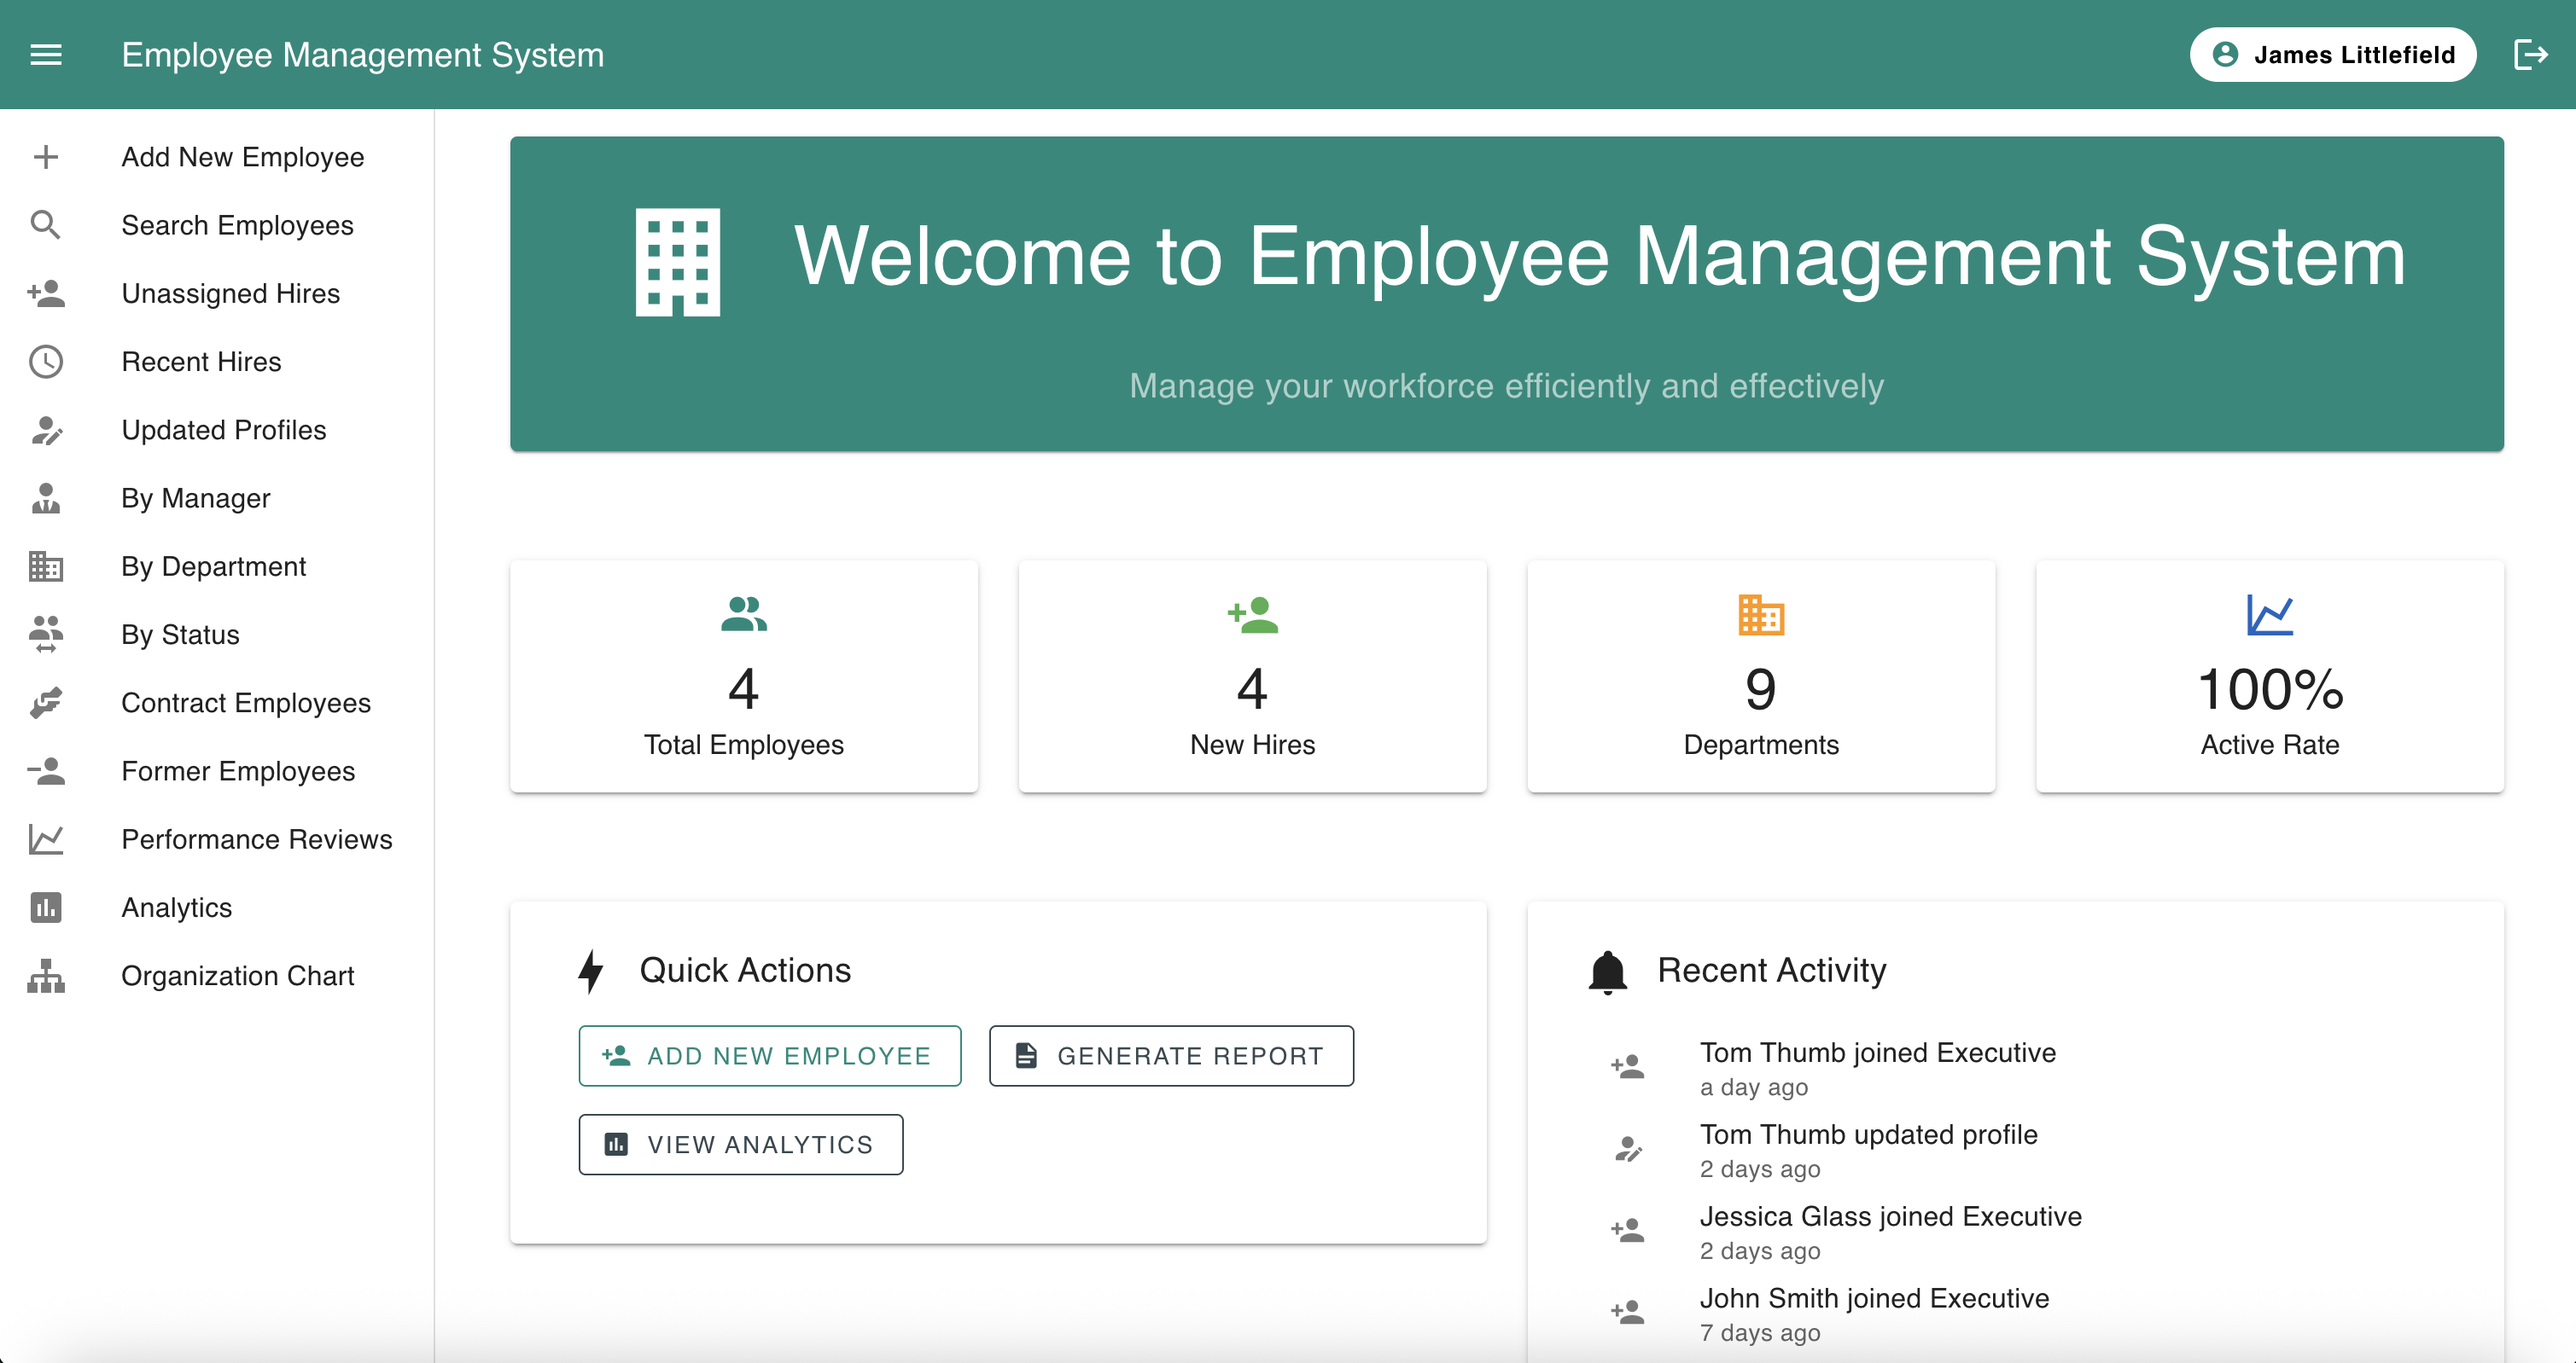
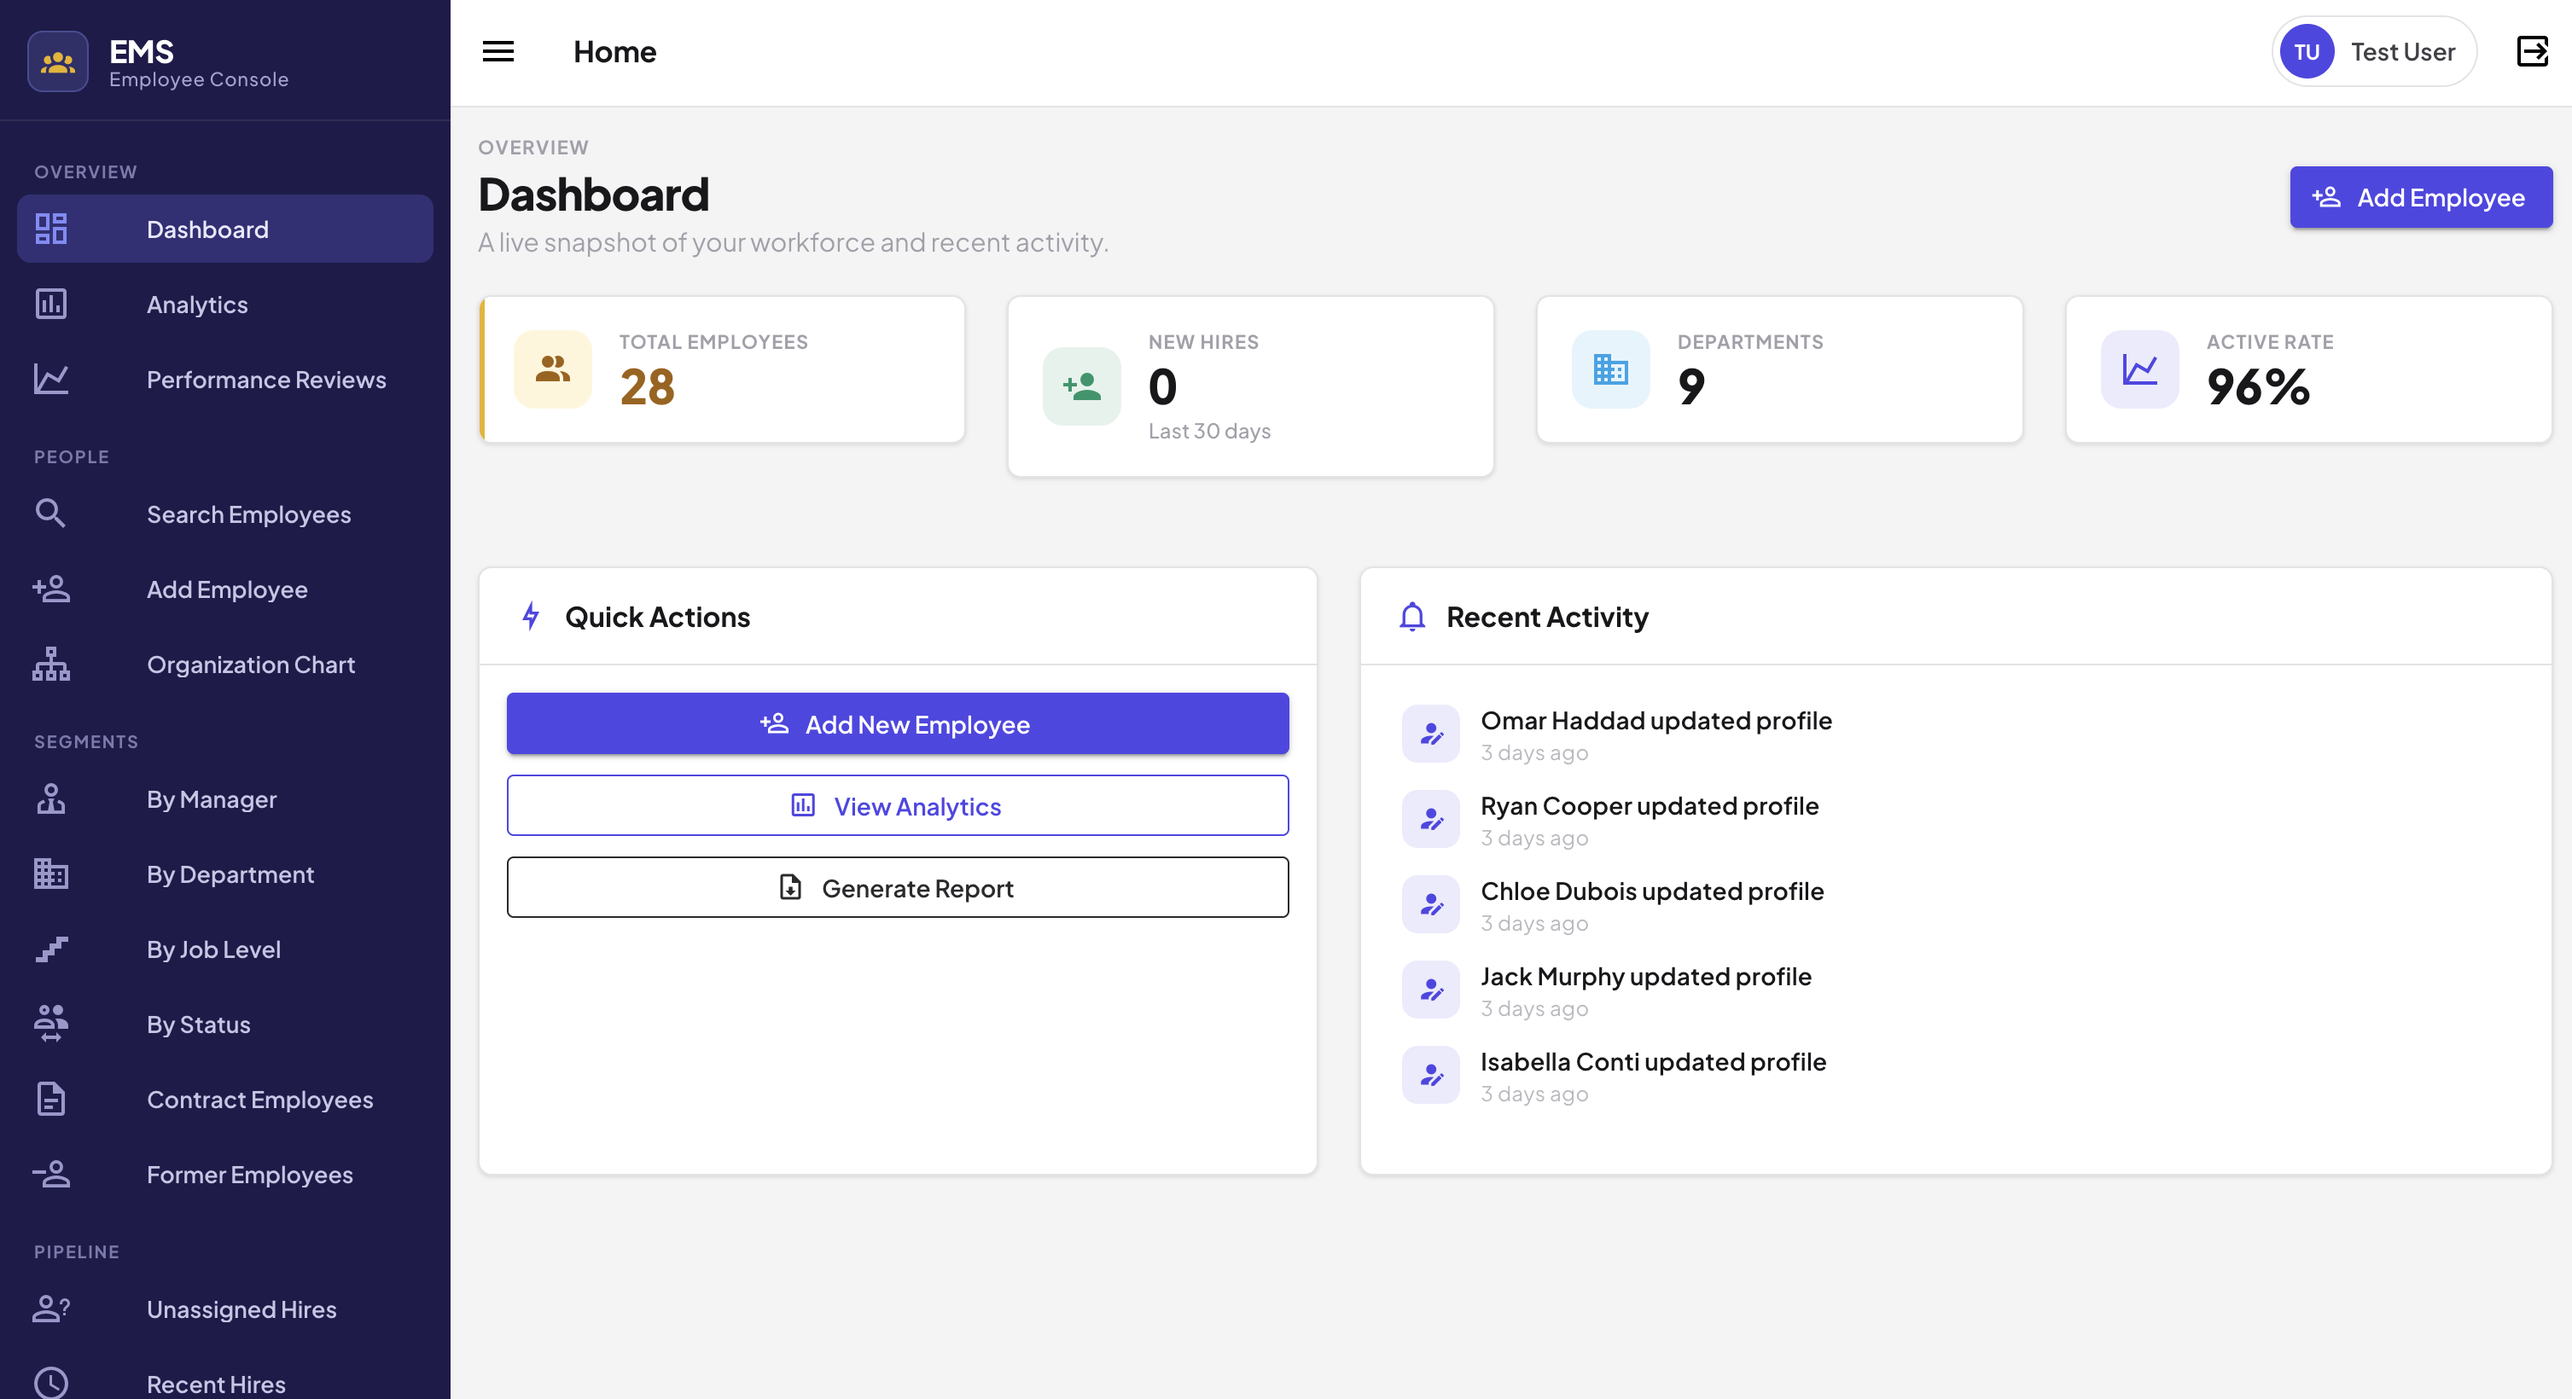
update images for projects

diff --git a/src/stores/projects.ts b/src/stores/projects.ts
@@ -7,7 +7,7 @@ import BarcodeCrudPic from '../assets/images/BarcodeCrud.png'
 import EmployeeManagementPic from '../assets/images/Employee.png'
 import CrapsGamePic from '../assets/images/Craps.png'
 import DocQuizPipelinePic from '../assets/images/CommandLineParser.png'
-import SmartResumePic from '../assets/images/SmartResume.svg'
+import SmartResumePic from '../assets/images/SmartResume.png'
 
 export const useProjectsStore = defineStore('projects', () => {
   const projects = ref<Project[]>([
